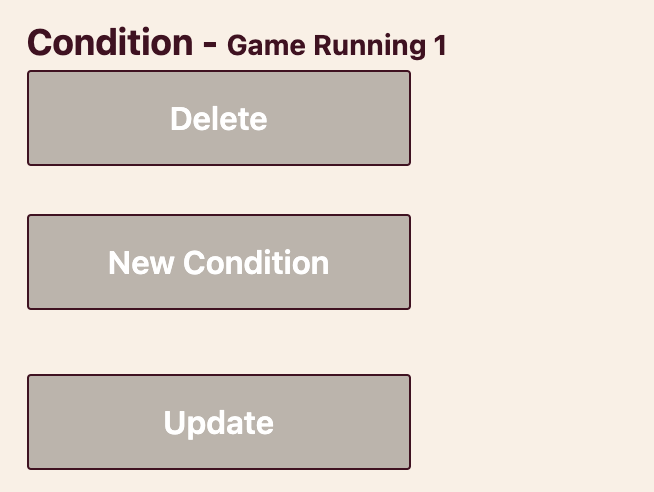
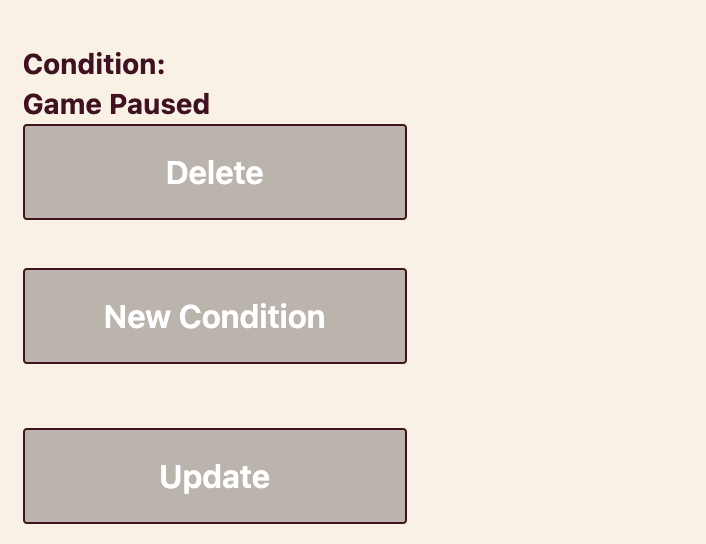
Style pause element tutorial

Changed region(s): [[0.0306, 0.061, 0.7034, 0.6707], [0.0306, 0.7622, 0.6422, 0.9756], [0.2141, 0.8232, 0.4281, 0.9146]]

diff --git a/frontend/src/lib/components/obs/overlays/selector/VisibilitySelect.svelte b/frontend/src/lib/components/obs/overlays/selector/VisibilitySelect.svelte
@@ -67,11 +67,10 @@
 
 						{#if tempActiveConditions[i].length}
 							<div
-								class="color-secondary text-sm font-bold"
 								in:fly={{ duration: 250, x: 100, delay: 250 }}
 								out:fly={{ duration: 250, x: 100 }}
 							>
-								Condition:
+								<h1 class="color-secondary text-sm font-bold">Condition:</h1>
 								{#each tempActiveConditions[i] as activeCondition, j}
 									<h1 class="color-secondary text-sm">{activeCondition.title}</h1>
 									{#if tempActiveConditions[i].length != j + 1}
@@ -107,7 +106,7 @@
 
 		<div>
 			{#if tempActiveConditions.length}
-				<h1 class="color-secondary fond-bold">Combined conditions:</h1>
+				<h1 class="color-secondary font-bold">Combined conditions:</h1>
 			{/if}
 			<div class="max-h-28 overflow-auto">
 				{#each tempActiveConditions as activeConditions, i}

diff --git a/frontend/src/lib/components/tutorial/new-overlay/CreateCustomHud.svelte b/frontend/src/lib/components/tutorial/new-overlay/CreateCustomHud.svelte
@@ -138,16 +138,16 @@
 	Then scroll down and press <b>Update</b>
 </h2>
 
+<h2>
+	When you return to the <b>Style</b>
+	page there will an option to apply transitions.
+</h2>
+
 <img
 	class="border-secondary"
 	src="/image/tutorial/new-overlay/apply-visibility-condition-animation.png"
 	alt="Apply visibility transitions"
 />
-
-<h2>
-	When you return to the <b>Style</b>
-	page there will an option to apply transitions.
-</h2>
 
 <h2>
 	The transition properties shown in the image above have the element enter from the left and exit
